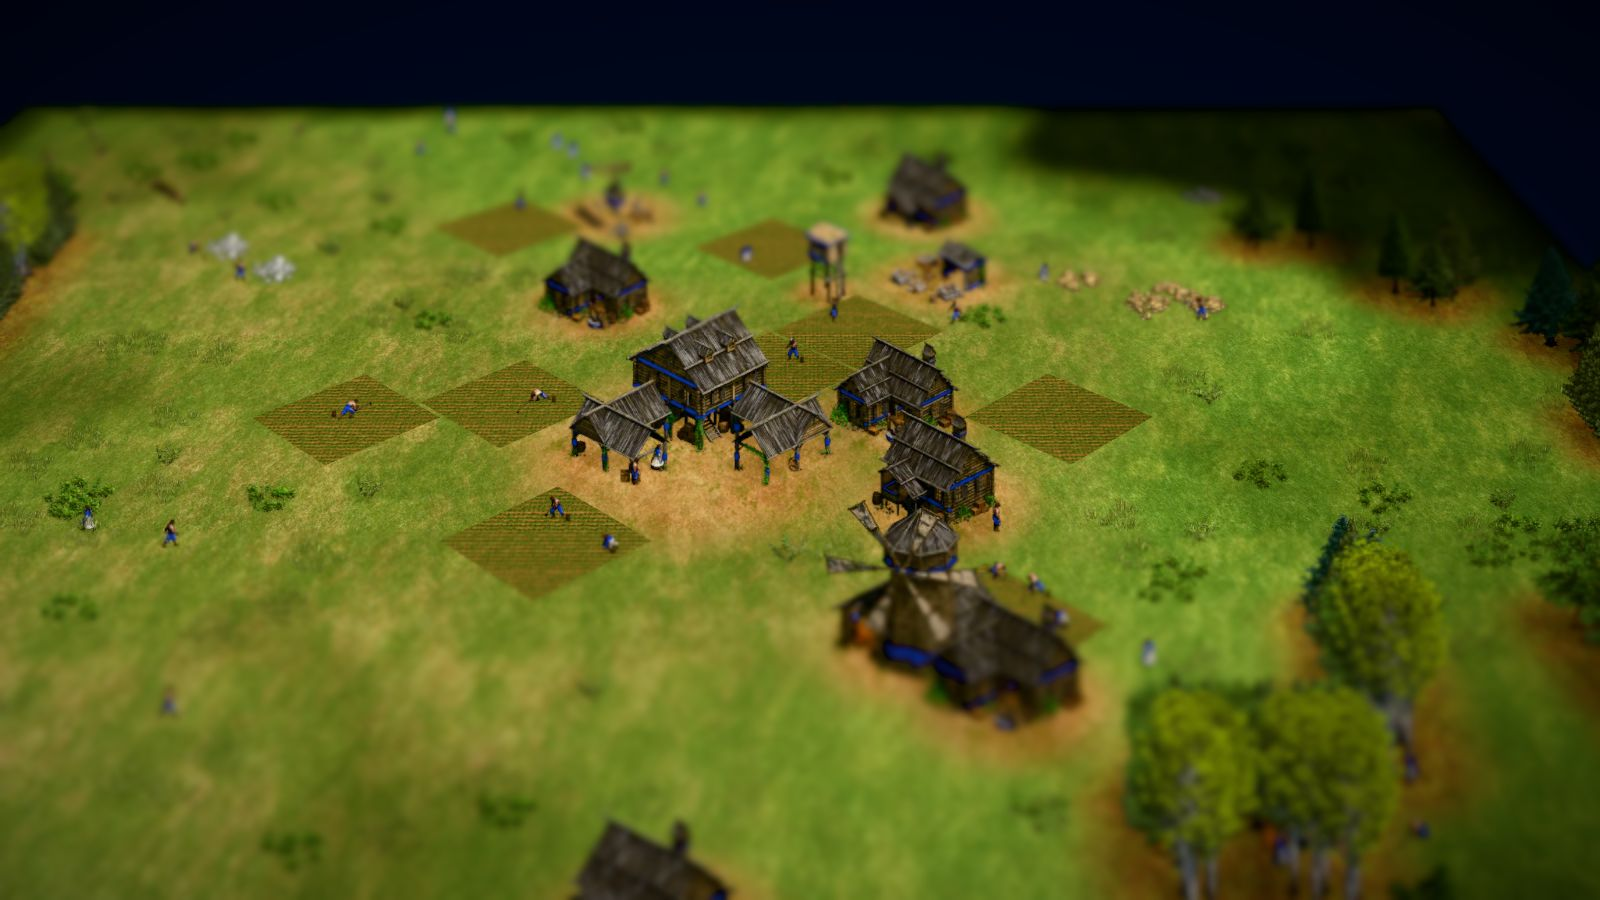
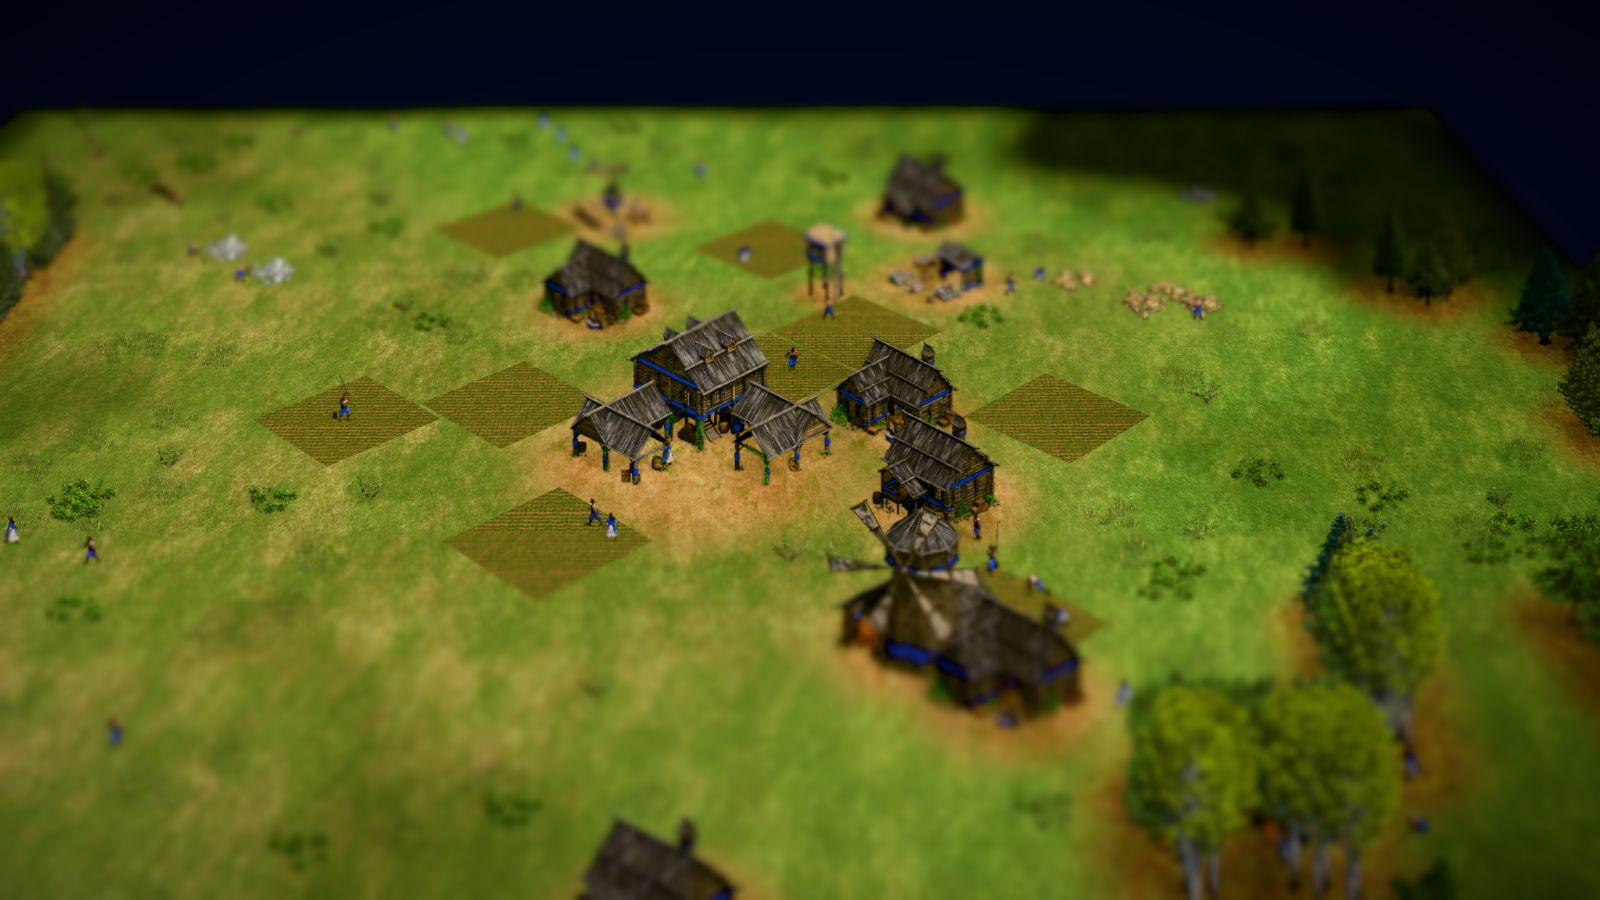
fix(landing): villagers inside a building's footprint walk out instead of on the spot
Villagers standing under the Town Center's roof found every route blocked by the
building they stood in, got no route, and kept playing the walk animation in
place. A route now ignores the obstacle its villager stands in, so they walk out
and back; a walker that still has no clear route stands still.

diff --git a/apps/landing/src/components/walkthrough/scene/world.ts b/apps/landing/src/components/walkthrough/scene/world.ts
@@ -272,23 +272,29 @@ export function createWorld(layout: Layout, textures: WorldTextures, meta: Sprit
   const STRIDE = 1.3; // tiles per full walk cycle
   const PAUSE = 1.1; // seconds standing at each end
   type Route = { ax: number; az: number; bx: number; bz: number; length: number; offset: number };
-  type Worker = { handle: SpriteHandle; base: string; x: number; z: number; walk: boolean; route: Route | null; phase: number };
+  type Worker = { handle: SpriteHandle; base: string; x: number; z: number; walk: boolean; route: Route | null; stand: boolean; phase: number };
 
   // Routes avoid buildings, fields, trees and mines; prefer heading to or from the
   // Town Center, as villagers carrying goods do.
   const obstacles = layout.placements.filter((p) => p.kind === "building" || p.kind === "farm" || p.kind === "tree" || p.kind === "mine");
-  const blockedAt = (x: number, z: number) =>
-    obstacles.some((o) => {
-      const reach = o.kind === "tree" ? 0.55 : o.kind === "mine" ? 0.9 : o.size / 2 + 0.35;
-      return Math.abs(x - o.x) < reach && Math.abs(z - o.z) < reach;
-    });
+  const covers = (o: Placement, x: number, z: number) => {
+    const reach = o.kind === "tree" ? 0.55 : o.kind === "mine" ? 0.9 : o.size / 2 + 0.35;
+    return Math.abs(x - o.x) < reach && Math.abs(z - o.z) < reach;
+  };
   const routeFrom = (x: number, z: number, seed: number): Route | null => {
+    // A villager standing in a building's footprint (under the Town Center's roof,
+    // dropping off goods) walks out of it; only the other obstacles block its route.
+    const around = obstacles.filter((o) => !covers(o, x, z));
     const home = Math.atan2(layout.tc.z - z, layout.tc.x - x);
     for (let k = 0; k < 16; k++) {
       const angle = home + (k % 2 ? 1 : -1) * Math.ceil(k / 2) * (Math.PI / 8);
       const length = 2.2 + (seed % 5) * 0.25;
       let clear = true;
-      for (let d = 0.4; d <= length && clear; d += 0.3) clear = !blockedAt(x + Math.cos(angle) * d, z + Math.sin(angle) * d);
+      for (let d = 0.4; d <= length && clear; d += 0.3) {
+        const px = x + Math.cos(angle) * d;
+        const pz = z + Math.sin(angle) * d;
+        clear = !around.some((o) => covers(o, px, pz));
+      }
       if (clear) return { ax: x, az: z, bx: x + Math.cos(angle) * length, bz: z + Math.sin(angle) * length, length, offset: seed * 1.7 };
     }
     return null;
@@ -304,10 +310,12 @@ export function createWorld(layout: Layout, textures: WorldTextures, meta: Sprit
       }
       const towards = target.place ? Math.atan2(target.place.z - v.z, target.place.x - v.x) : 0;
       const facing = nearestWorkFacing(facingFor(Math.cos(towards), Math.sin(towards)));
-      const base = task === "walk" ? `vil${gender}_walk` : `vil${gender}_${task}_d${facing}`;
-      const handle = sprites.add(task === "walk" ? `${base}_d0` : base, v.x, 0, v.z, i * 3);
       const route = task === "walk" ? routeFrom(v.x, v.z, i) : null;
-      return { handle, base, x: v.x, z: v.z, walk: route !== null, route, phase: i * 0.77 };
+      const base = task === "walk" ? `vil${gender}_walk` : `vil${gender}_${task}_d${facing}`;
+      // A walker with nowhere clear to go stands, facing the viewer, rather than
+      // walking on the spot.
+      const handle = sprites.add(task === "walk" ? `${base}_d4` : base, v.x, 0, v.z, i * 3);
+      return { handle, base, x: v.x, z: v.z, walk: route !== null, route, stand: task === "walk" && route === null, phase: i * 0.77 };
     });
   const animals = layout.placements
     .filter((p) => p.kind === "animal")
@@ -335,7 +343,7 @@ export function createWorld(layout: Layout, textures: WorldTextures, meta: Sprit
     for (const w of workers) {
       const r = w.route;
       if (!w.walk || !r) {
-        w.handle.frame = Math.floor(time * FPS + w.phase * 10);
+        w.handle.frame = w.stand ? 0 : Math.floor(time * FPS + w.phase * 10);
         continue;
       }
       // One loop: walk out, stand, walk back, stand.
@@ -378,6 +386,7 @@ export function createWorld(layout: Layout, textures: WorldTextures, meta: Sprit
       const route = routeFrom(w.x, w.z, Math.round(w.phase * 13));
       if (!route) return;
       w.walk = true;
+      w.stand = false;
       w.route = route;
       w.base = `${w.base.slice(0, 4)}_walk`;
     },
